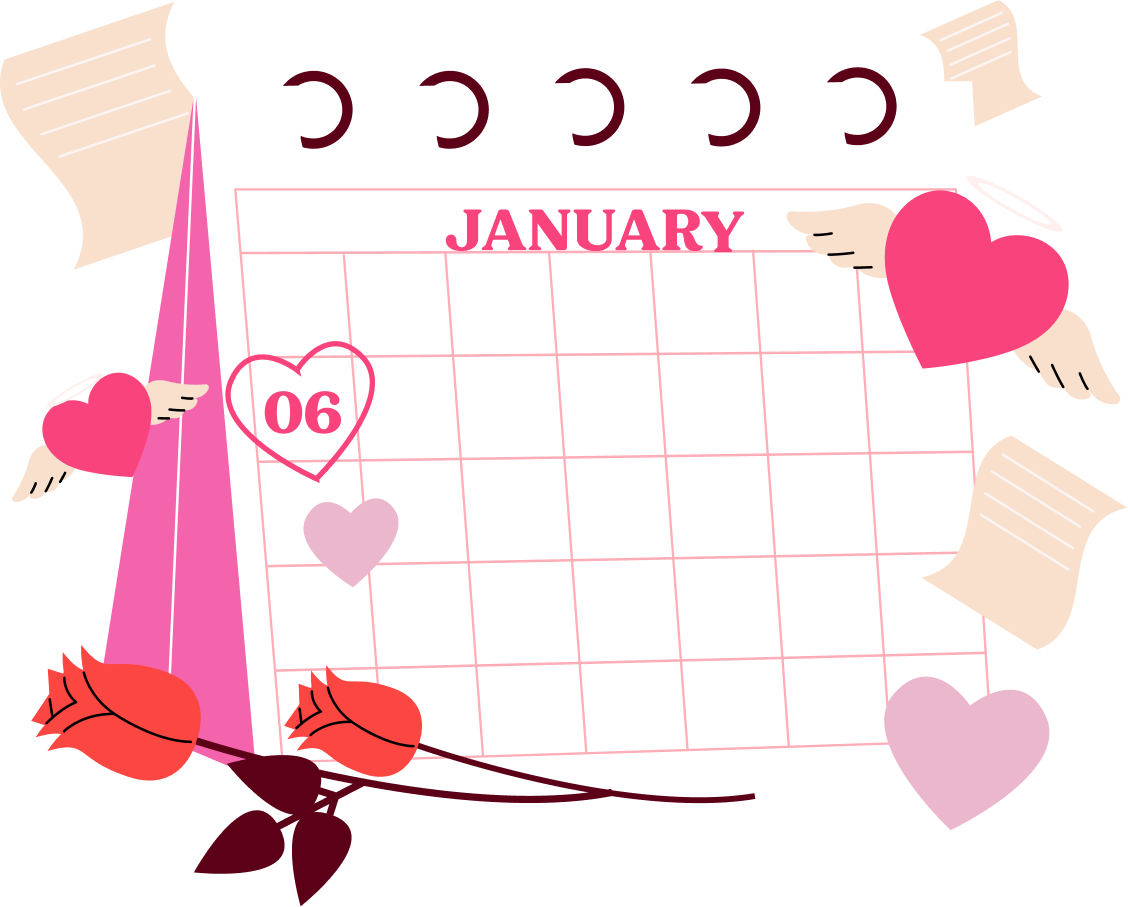
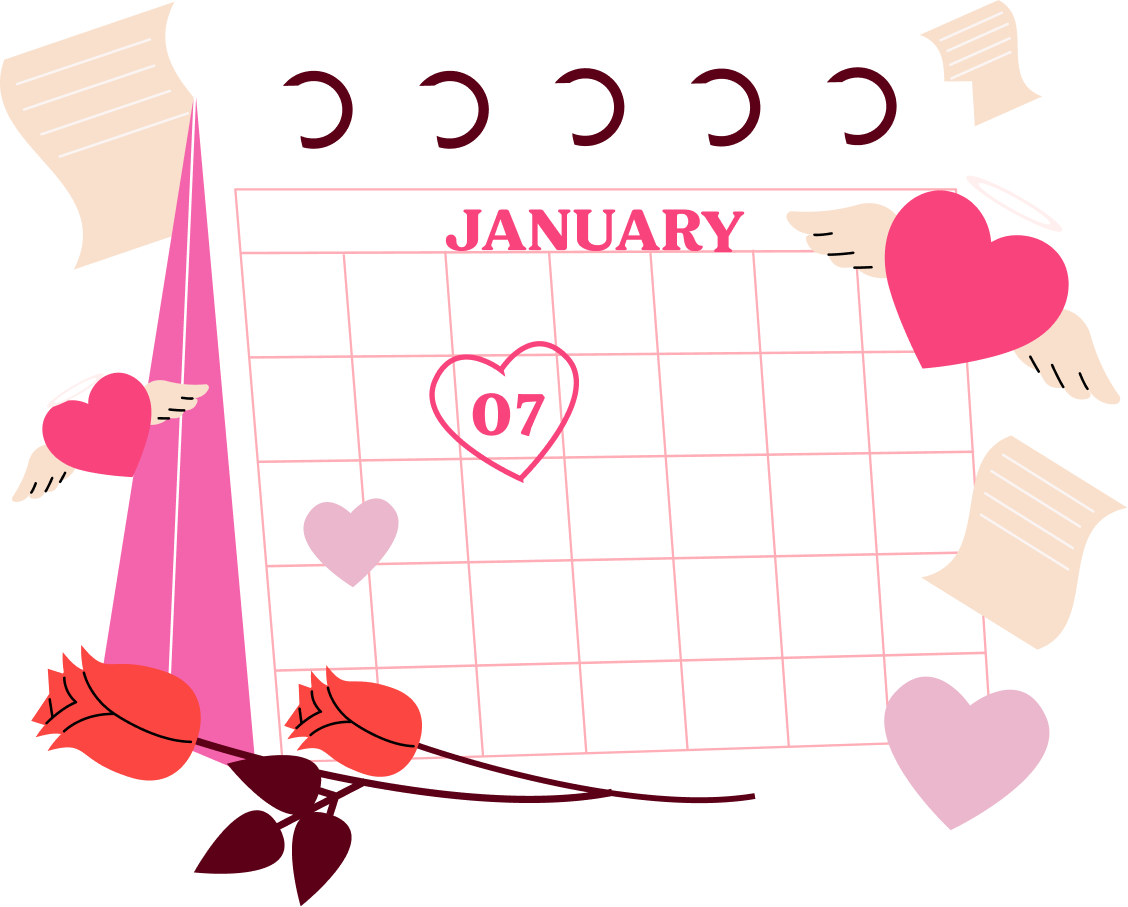
add fade in effect 1

Changed region(s): [[0.3723, 0.3705, 0.5275, 0.5248], [0.1862, 0.3705, 0.3413, 0.5248]]

diff --git a/src/First.jsx b/src/First.jsx
@@ -1,14 +1,54 @@
-import React from 'react';
+import React, { useEffect, useState } from "react";
 
 const First = () => {
-    return(
-        <div className="flex flex-col items-center justify-center min-h-screen">
-            <img src="./images/happy-anniv.png" alt="happy anniv" className="w-80 z-10"/>
-            <img src= "./images/calendar.png" alt="calendar" className="w-80 mt-10 z-10"/>
-            <img src= "./images/dots.png" alt="dots" className="w-full h-full absolute z-1"/>
-            <img src= "./images/footer.png" alt="footer" className="w-full h-96 absolute bottom-0"/>
-        </div>
-    )
-}
+  const [fadeIn, setFadeIn] = useState([false, false, false, false]);
+
+  useEffect(() => {
+    const timers = fadeIn.map((_, index) =>
+      setTimeout(() => {
+        setFadeIn((prev) => {
+          const newFadeIn = [...prev];
+          newFadeIn[index] = true;
+          return newFadeIn;
+        });
+      }, index * 500) 
+    );
+
+    return () => timers.forEach((timer) => clearTimeout(timer));
+  }, []);
+
+  return (
+    <div className="flex flex-col items-center justify-center min-h-screen relative overflow-hidden">
+      <img
+        src="./images/happy-anniv.png"
+        alt="happy anniv"
+        className={`w-80 z-10 transition-opacity duration-1000 ${
+          fadeIn[0] ? "opacity-100" : "opacity-0"
+        }`}
+      />
+      <img
+        src="./images/calendar.png"
+        alt="calendar"
+        className={`w-80 mt-10 z-10 transition-opacity duration-1000 ${
+          fadeIn[1] ? "opacity-100" : "opacity-0"
+        }`}
+      />
+      <img
+        src="./images/dots.png"
+        alt="dots"
+        className={`w-full h-full absolute z-1 transition-opacity duration-1000 ${
+          fadeIn[2] ? "opacity-100" : "opacity-0"
+        }`}
+      />
+      <img
+        src="./images/footer.png"
+        alt="footer"
+        className={`w-full h-96 absolute bottom-0 transition-opacity duration-500 ${
+          fadeIn[3] ? "opacity-100" : "opacity-0"
+        }`}
+      />
+    </div>
+  );
+};
 
 export default First;

diff --git a/src/UnlockPage.jsx b/src/UnlockPage.jsx
@@ -7,7 +7,7 @@ const UnlockPage = () => {
   const navigate = useNavigate();
   // const audioRef = useRef(null);
 
-  const expectedCode = "06012023";
+  const expectedCode = "07012023";
 
   const handleSubmit = (e) => {
     e.preventDefault();

diff --git a/tailwind.config.js b/tailwind.config.js
@@ -13,6 +13,8 @@ module.exports = {
       }
     },
   },
-  plugins: [],
+  plugins: [
+    require('@tailwindcss/aspect-ratio'),
+  ],
 };
 
